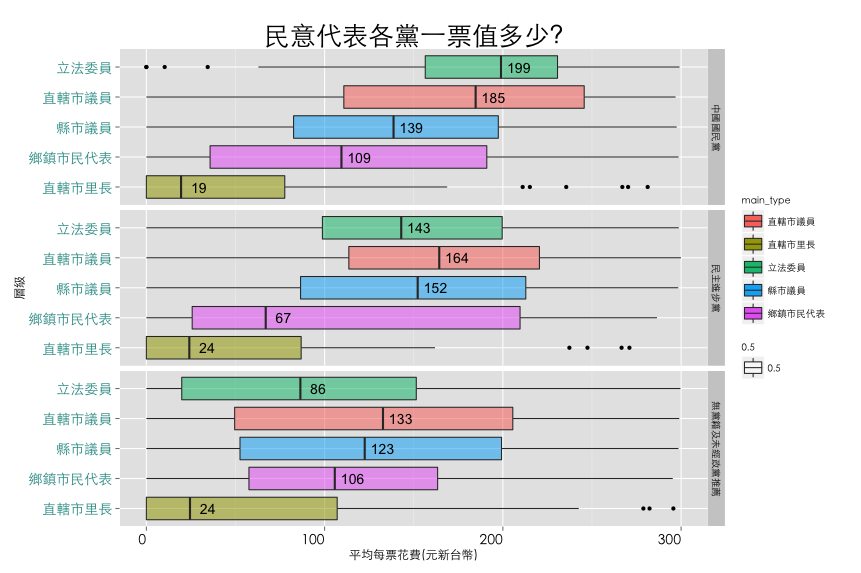
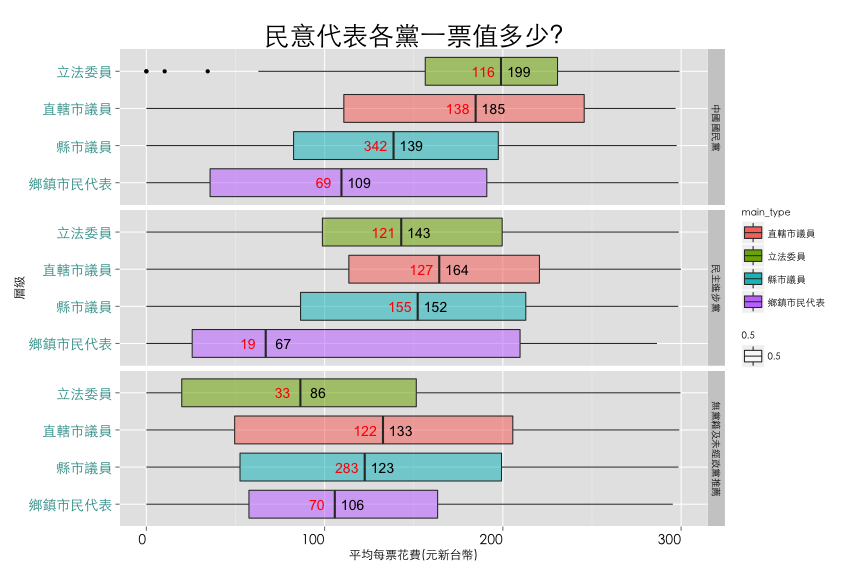
記得上傳修改資訊

Changed region(s): [[0.0302, 0.089, 0.8153, 0.9197], [0.8455, 0.3264, 0.9663, 0.6527]]

diff --git a/index.html b/index.html
@@ -102,24 +102,23 @@
       <h2>政黨每張票需要的花費的金額</h2>
 
 
-      <p>第一張為民意代表在各政黨的票價．橫軸單位<strong>元新台幣</strong>，縱軸為<strong>選舉類別</strong>．透過Boxplot，找出各級選舉平均每張票的Q1 Q3 與中位數．</p>
+      <p>第一張為民意代表在各政黨的票價．橫軸單位<strong>元新台幣</strong>，縱軸為<strong>選舉類別</strong>．透過Boxplot，找出各級選舉平均每張票的Q1 Q3 與中位數．紅色數字代表資料筆數</p>
 
         <img src="./res/F2.png" alt="民意代表" class="img-thumbnail img-responsive shadow row_padding"/>
 
-        <p>第二張為全國或地方首長在各政黨的票價．橫軸單位<strong>元新台幣</strong>，縱軸為<strong>選舉類別</strong>．透過Boxplot，找出各級選舉平均每張票的Q1 Q3 與中位數．</p>
+        <p>第二張為全國或地方首長在各政黨的票價．橫軸單位<strong>元新台幣</strong>，縱軸為<strong>選舉類別</strong>．透過Boxplot，找出各級選舉平均每張票的Q1 Q3 與中位數．紅色數字代表資料筆數</p>
 
         <img src="./res/F3.png" alt="民意代表" class="img-thumbnail img-responsive shadow row_padding"/>
 
- <ol>
-        <li>透過這個簡單的分析可以看見，<strong>村里長每張票所需要的金額一個50銅板就有找，同時選里長需要的票數也是各層級較少的</strong>，如果經費有限制的話，不仿從里長開始進行一開始的選舉之路．</li>
-        <li>令人驚訝的事情是<strong>選總統需要的金額居然只要86元就可以，這是每張選票的價值中第三低的</strong>，不過考慮到當選需要的票數，除非真的擁有全國性的高知名度，真的不建議直接選總統（後面會再探討)．</li>
-        <li>最後可以看見不論是鄉鎮市集，縣市，直轄市，全國哪一個等級，<strong>民意代表的每張票價值都是比地方或全國首長還要高</strong>，這是否隱含當民代的權力與後續帶來的好處都比較好呢?這是值得後續探究的問題</li>
+        <ol>
+        <li>令人驚訝的事情是<strong>國民黨在民意代表各級選舉其經費所花費等級的確與選舉層級有正相關</strong>，同時也很願意在這個地方投入較多的金額</li>
+        <li>選鄉鎮市長<strong>不論是哪個黨派，或者無黨籍</strong>，一張票大約都是100元，選村里長則都是20元到40元之間</li>
+        <li>民進黨在縣市長以上層級，其民代得票所需成本都約150元上下</li>
         </ol>
 
 
       </div>
     </div>
-  </div>
 
   <div class="row row_padding">
     <div class="col-md-12 shadow white_bg">
